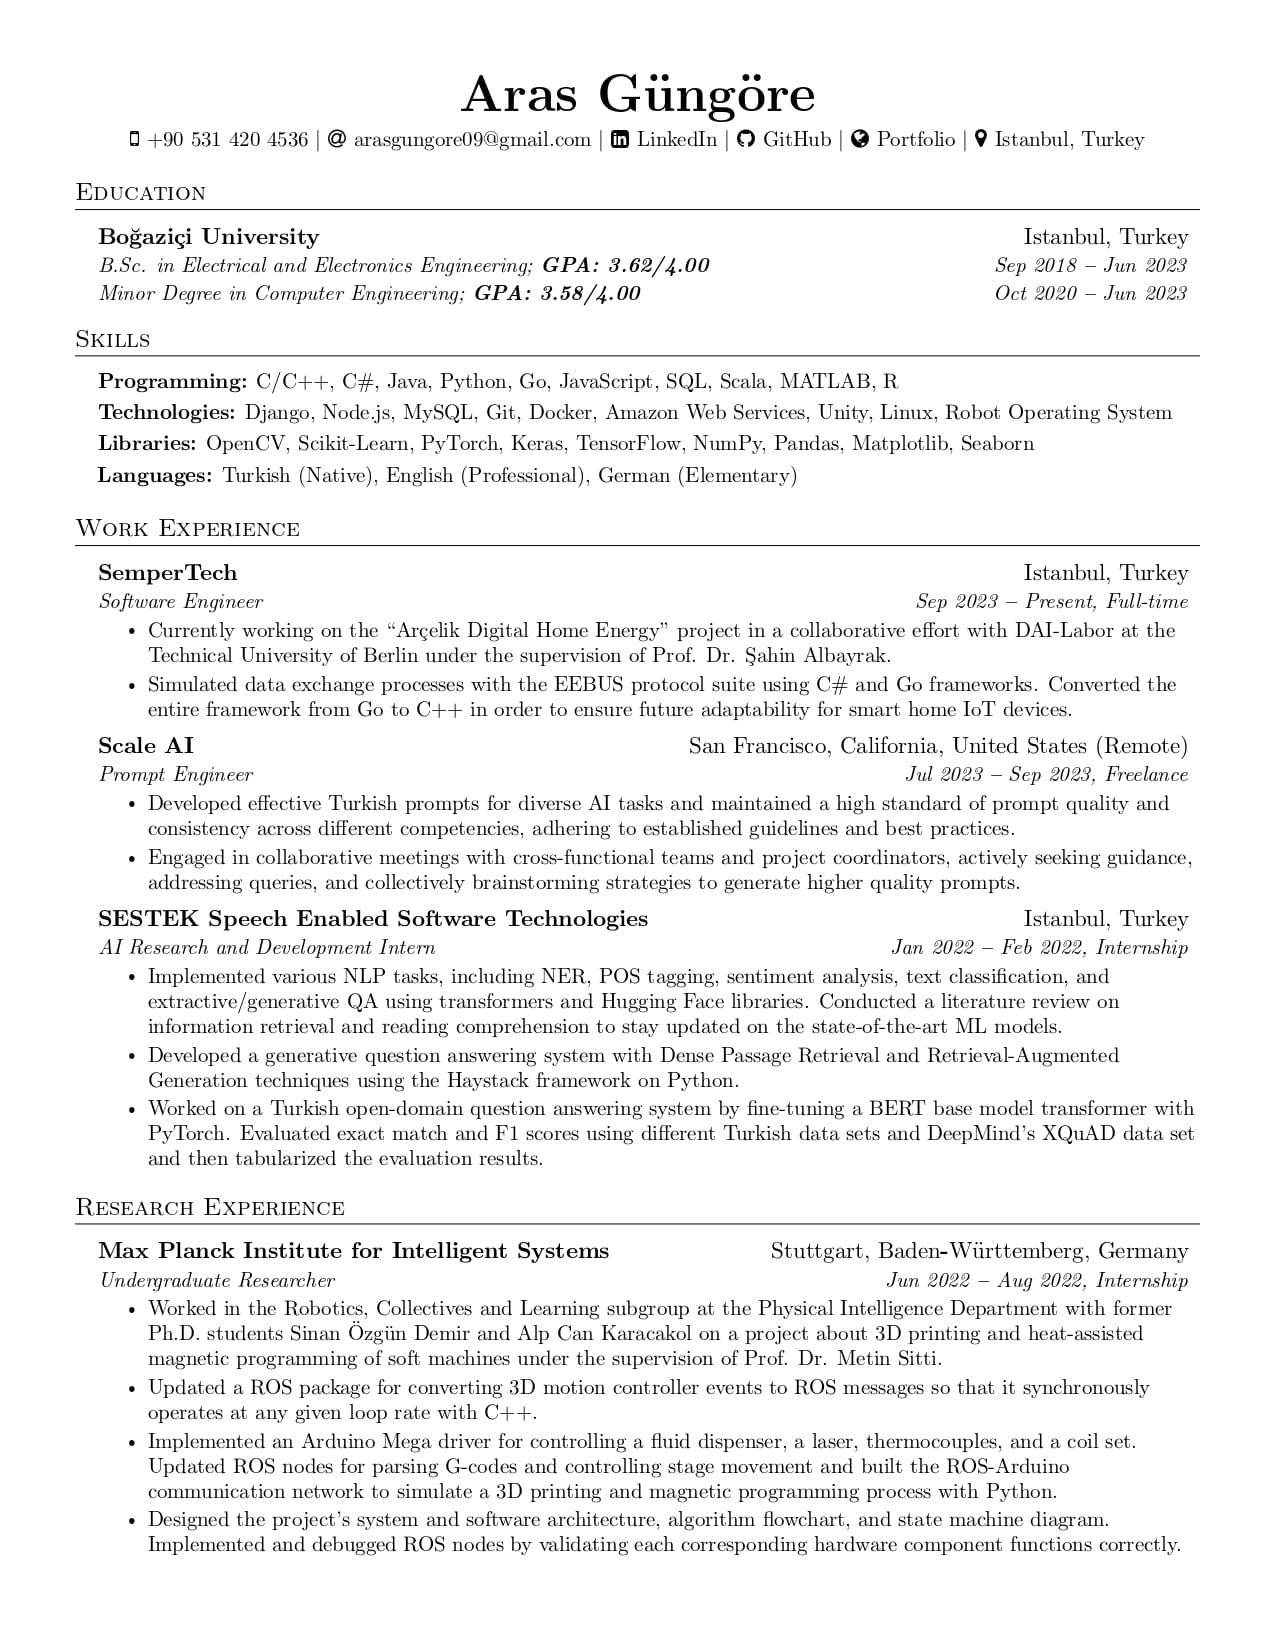
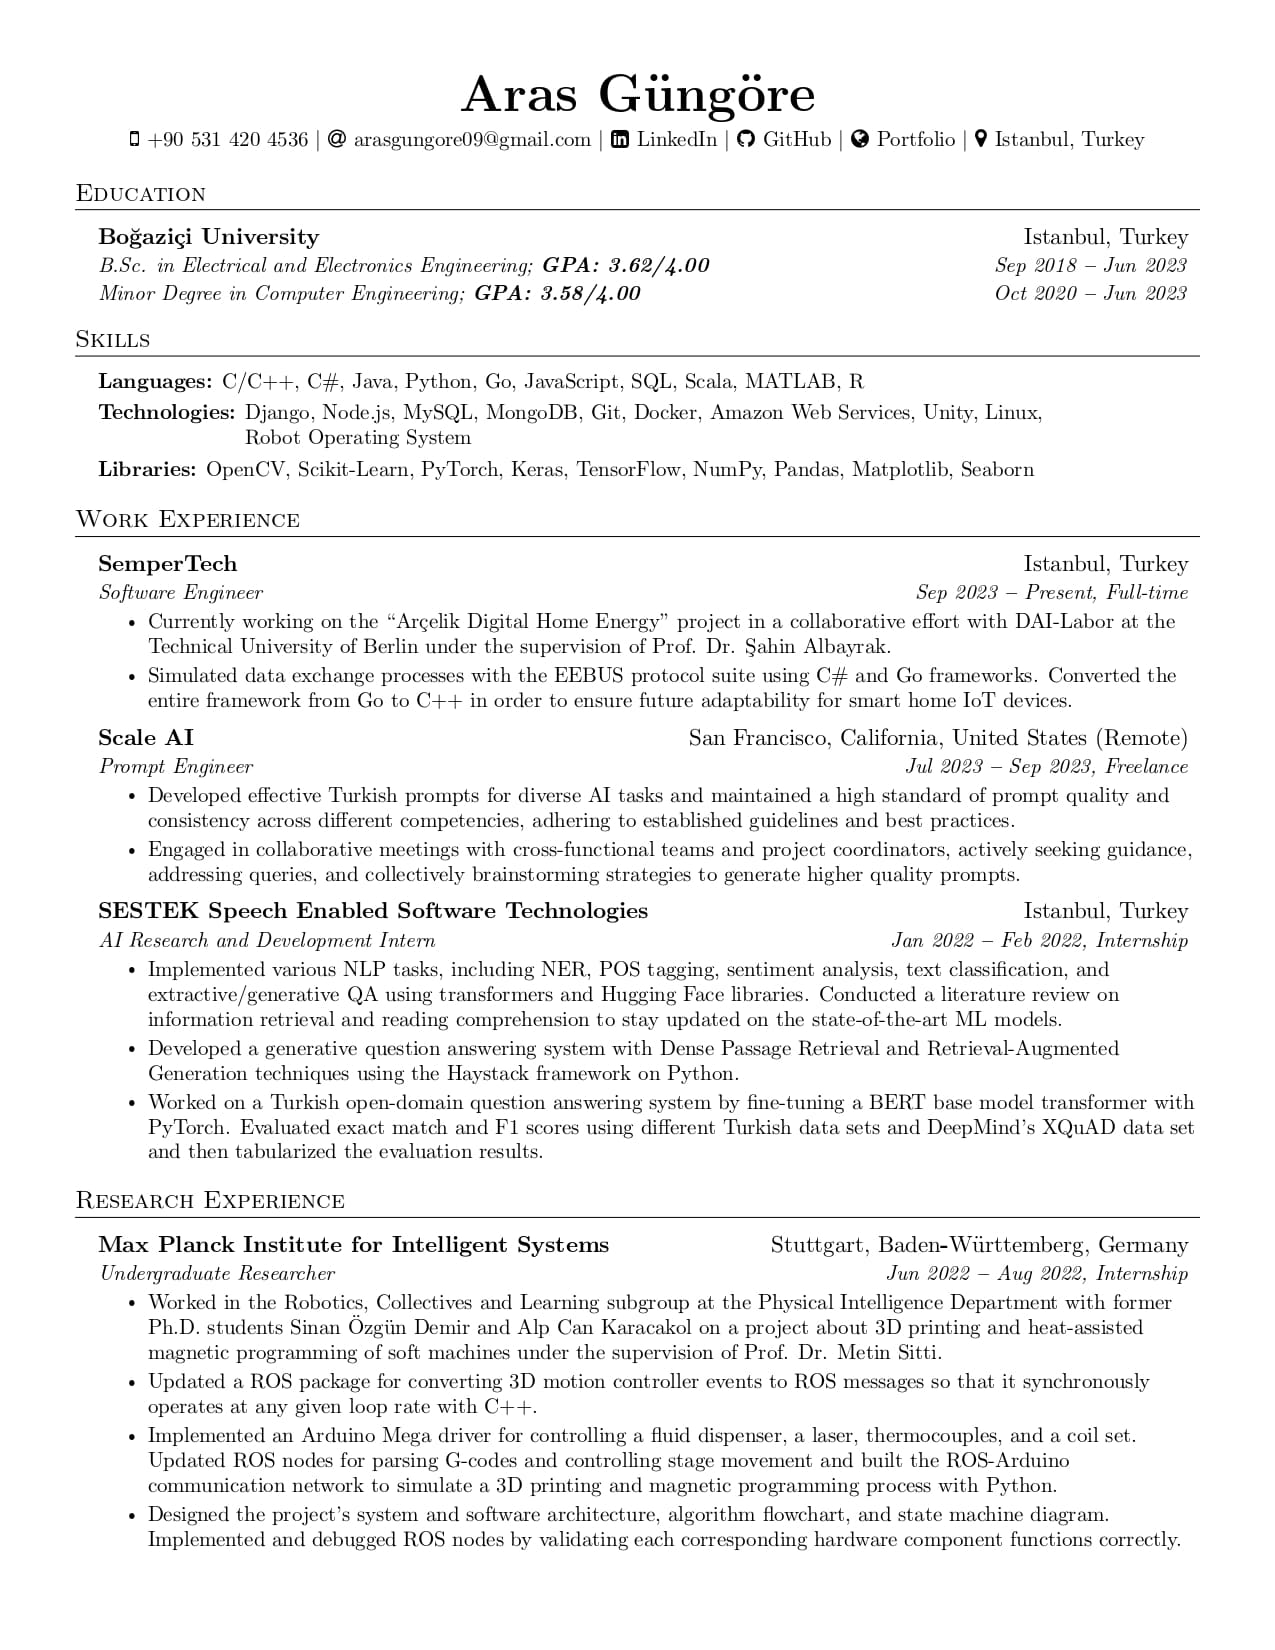
Updated CV

Changed region(s): [[0.0612, 0.2164, 0.9482, 0.9582]]

diff --git a/main.tex b/main.tex
@@ -182,14 +182,12 @@
   \vspace{2pt}
   \resumeSubHeadingListStart
     \small{\item{
-    
-        \textbf{Programming:}{ C/C++, C\#, Java, Python, Go, JavaScript, SQL, Scala, MATLAB, R} \\ \vspace{3pt}
-
-        \textbf{Technologies:}{ Django, Node.js, MySQL, Git, Docker, Amazon Web Services, Unity, Linux, Robot Operating System} \\ \vspace{3pt}
+        
+        \textbf{Languages:}{ C/C++, C\#, Java, Python, Go, JavaScript, SQL, Scala, MATLAB, R} \\ \vspace{3pt}
+        
+        \textbf{Technologies:}{ Django, Node.js, MySQL, MongoDB, Git, Docker, Amazon Web Services, Unity, Linux, \\ \hspace{67.5pt} Robot Operating System} \\ \vspace{3pt}
         
         \textbf{Libraries:}{ OpenCV, Scikit-Learn, PyTorch, Keras, TensorFlow, NumPy, Pandas, Matplotlib, Seaborn} \\ \vspace{3pt}
-        
-        \textbf{Languages:}{ Turkish (Native), English (Professional), German (Elementary)}
         
     }}
   \resumeSubHeadingListEnd
